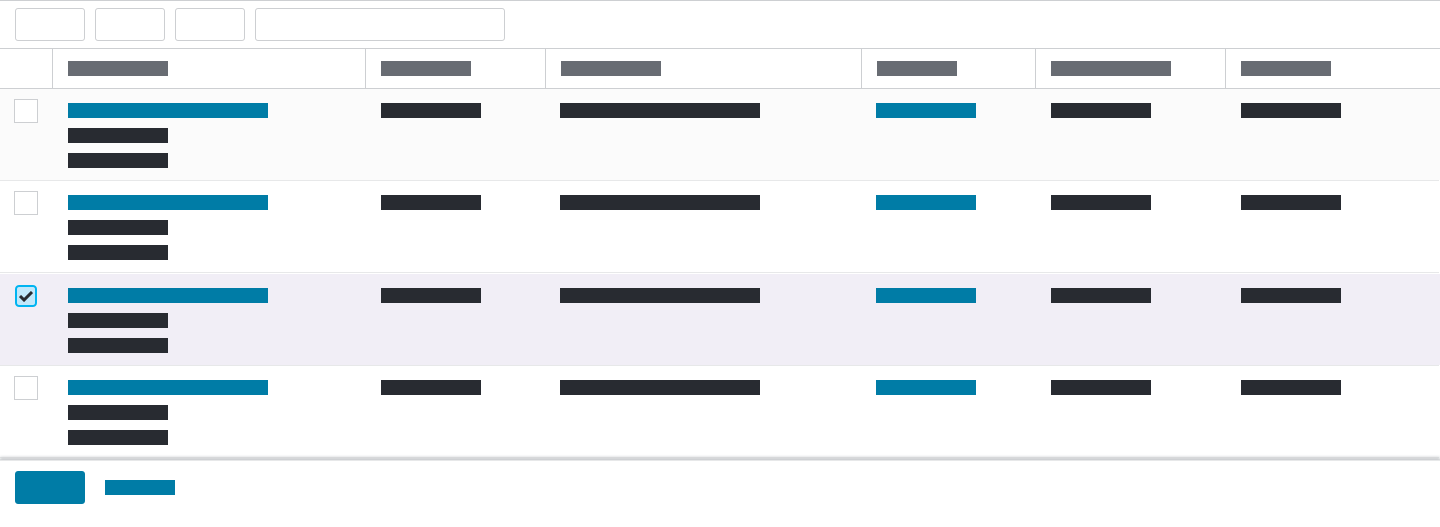
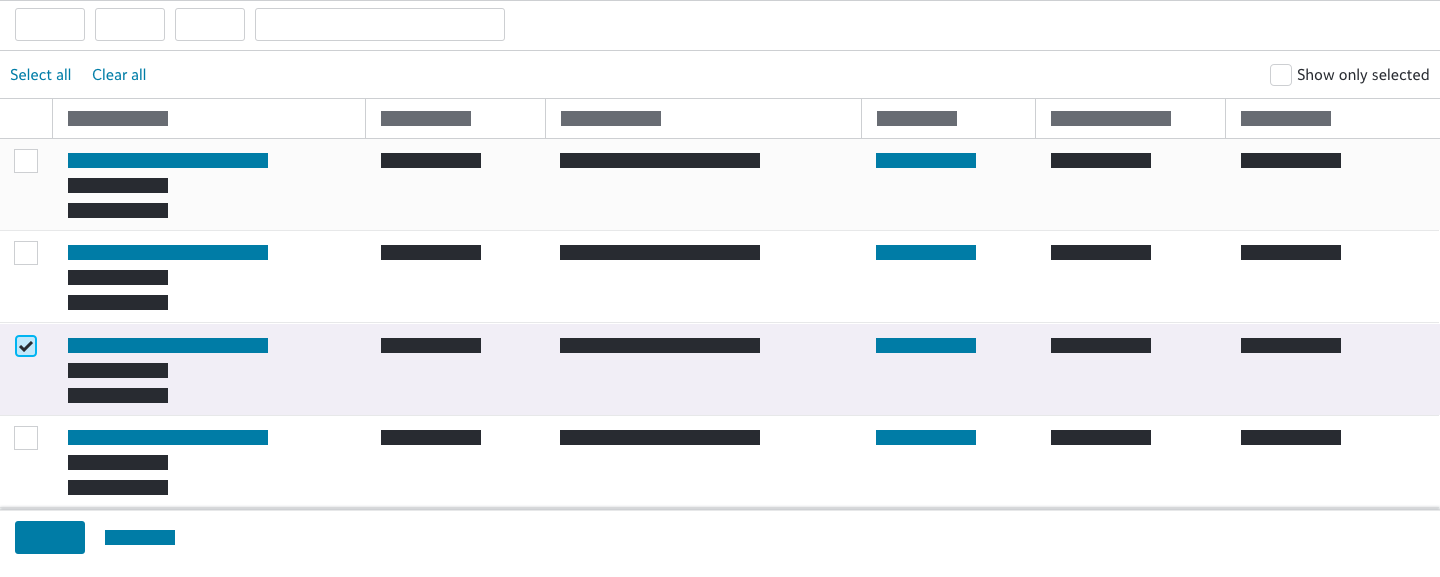
ux docs

diff --git a/src/app/components/list/grid/index.html b/src/app/components/list/grid/index.html
@@ -124,5 +124,263 @@
     <sky-list-view-grid-demo></sky-list-view-grid-demo>
     <sky-demo-page-code demoName="List view grid"></sky-demo-page-code>
   </sky-demo-page-example>
+	
+	<sky-demo-page-content sectionHeading="UX guidelines">
+	
+	
+	<header><div class="sky-section-heading">Usage</div></header>
+	<p>The grid provides a layout for tabular data.</p>
+		
+	<header><div class="sky-subsection-heading">When to use grids</div></header>
+		
+  <stache-row>
+    <stache-column screenSmall="6">
+			<p>Use grids to display tabular data when: </p>
+			<ul>
+				<li>There is a large amount of data that needs to be visible at once.</li>
+				<li>Users need to visually scan a column to look for certain values or outliers.</li>
+				<li>Users need to compare values between rows.</li>
+			</ul>
+		</stache-column>
+		<stache-column screenSmall="6">
+			<div class="screenshot screenshot-success">
+				<img src="~/assets/img/guidelines/grid/grid-use-when.png" />
+			</div>
+		</stache-column>
+	</stache-row>
+    
+	<header><div class="sky-subsection-heading">When not to use grids</div></header>
+
+  <stache-row>
+    <stache-column screenSmall="6">
+			<ul>
+        <li>Do not use grids when you need to display visual content such as graphs or images. Use <a routerLink="/components/repeater">repeaters</a> or <a routerLink="/components/card">card</a> views instead.</li>
+        <li>Do not use grids when the content calls for a more complex layout. If a grid requires a lot of templated columns, try a repeater instead.</li>
+        <li>Do not use grids when you need to display many fields and it is likely that users will view the grids in a small viewport, such as on a phone. Try repeaters instead.</li>
+      </ul>
+		</stache-column>
+		<stache-column screenSmall="6">
+			<div class="screenshot screenshot-danger">
+				<img src="~/assets/img/guidelines/grid/grid-dont-use-complex.png" style="width: 100%;" />
+			</div>
+		</stache-column>
+	</stache-row>
+		
+	<header><div class="sky-section-heading">Anatomy</div></header>
+	
+		<stache-row>
+			<stache-column screenSmall="3">
+				<ol>
+					<li>
+						<span class="sky-deemphasized">List count (optional)</span>
+					</li>
+					<li>
+						<span class="sky-deemphasized">Toolbar (optional)</span>
+					</li>
+					<li>
+						<span class="sky-deemphasized">Multiselect toolbar (optional)</span>
+					</li>
+					<li>
+						Header row
+					</li>
+					<li>
+						<span class="sky-deemphasized">Row selection checkbox (optional)</span>
+					</li>
+					<li>
+						<span class="sky-deemphasized">Context menu button (optional)</span>
+					</li>
+					<li>
+						Data
+					</li>
+					<li>
+						Alternate row striping
+					</li>
+					<li>
+						Row divider
+					</li>
+					<li>
+						Selected row background
+					</li>
+					<li>
+						<span class="sky-deemphasized">Pagination (optional)</span>
+					</li>
+					<li>
+						<span class="sky-deemphasized">Summary action bar (optional)</span>
+					</li>
+				</ol>
+			</stache-column>
+			<stache-column screenSmall="9">
+				<div class="screenshot screenshot-info">
+				<img src="~/assets/img/guidelines/grid/grid-annotated.png" style="width: 100%;" />
+			</div>
+			</stache-column>
+		</stache-row>		
+    
+	<header><div class="sky-section-heading">Options</div></header>
+
+	<header><div class="sky-subsection-heading">Context menu</div></header>
+
+  <stache-row>
+    <stache-column screenSmall="6">
+			<p>Use context menus in the first column when users need to access multiple actions in the rows.</p>
+		</stache-column>
+		<stache-column screenSmall="6">
+			<div class="screenshot screenshot-info">
+				<img src="~/assets/img/guidelines/grid/grid-option-context-menu.png" style="width: 100%;" />
+			</div>
+		</stache-column>
+	</stache-row>
+    
+	<header><div class="sky-subsection-heading">Multiselect</div></header>
+
+  <stache-row>
+    <stache-column screenSmall="6">
+			<p>Use multiselect when:</p>
+				<ul>
+					<li>Users need to act on more than one row at a time.</li>
+					<li>The list is presented as a full page, a full page modal or a full page within a flyout.</li>
+				</ul>
+			<p>Don't use multiselect when:</p>
+			<ul>
+				<li>The list is presented in a tile, page section, or other container that might flow off the screen.</li>
+			</ul>
+			<p>Include the multiselect toolbar, which allows users to select or clear all items and to view only the selected items.</p>
+      <p>When users select rows, the summary action bar should fly in from the bottom of the page. Place actions that can be taken on the selected items in the summary action bar.</p>
+		</stache-column>
+		<stache-column screenSmall="6">
+			<div class="screenshot screenshot-info sky-margin-stacked-separate">
+				<img src="~/assets/img/guidelines/grid/grid-option-multi.png" style="width: 100%;" />
+			</div>
+			<div class="screenshot screenshot-danger">
+				<img src="~/assets/img/guidelines/grid/grid-option-multi-dont-tile.png" style="width: 100%;" />
+			</div>
+		</stache-column>
+	</stache-row>
+    
+	<header><div class="sky-subsection-heading">Sorting</div></header>
+
+  <stache-row>
+    <stache-column screenSmall="6">
+			<p>If users are likely to sort based on the data in columns, enable sorting so that they can click column headers to toggle between sorting in ascending and descending order for the specified fields in columns. If users need to sort by data in a templated column, use the <a routerLink="/components/sort">sort</a> component instead to allow them to choose the data being sorted on.</p>
+		</stache-column>
+		<stache-column screenSmall="6">
+			<div class="screenshot screenshot-info">
+				<img src="~/assets/img/guidelines/grid/grid-option-sort.png" style="width: 100%;" />
+			</div>
+		</stache-column>
+	</stache-row>
+		
+	<header><div class="sky-subsection-heading">Filtering</div></header>
+
+  <stache-row>
+    <stache-column screenSmall="6">
+			<p>If users are likely to need to work with a subset of the items in a list, enable filtering so that they can focus the list on the exact items they want.</p>
+		</stache-column>
+		<stache-column screenSmall="6">
+			<div class="screenshot screenshot-info">
+				<img src="~/assets/img/guidelines/grid/grid-option-filter.png" style="width: 100%;" />
+			</div>
+		</stache-column>
+	</stache-row>
+    
+	<header id="option-templated-columns"><div class="sky-subsection-heading">Templated columns</div></header>
+
+  <stache-row>
+    <stache-column screenSmall="6">
+			<p>When columns need to represent composite information instead of single values, use templated columns to lay out content as necessary.</p>
+		</stache-column>
+		<stache-column screenSmall="6">
+			<div class="screenshot screenshot-info">
+				<img src="~/assets/img/guidelines/grid/grid-option-template-column.png" style="width: 100%;" />
+			</div>
+		</stache-column>
+	</stache-row>
+    
+	<header><div class="sky-section-heading">Behavior</div></header>
+
+	<header><div class="sky-subsection-heading">Fit</div></header>
+	
+	<header><div class="sky-emphasized">Scroll</div></header>	
+		
+	
+		<stache-row>
+			<stache-column screenSmall="6">
+				<p>Setting the <stache-code>fit</stache-code> property to <stache-code>scroll</stache-code> allows the grid to take as much space as necessary by adding a horizontal scrollbar. This is most useful for grids with large numbers of columns.</p>
+			</stache-column>
+			<stache-column screenSmall="6">
+			<div class="screenshot screenshot-info">
+				<img src="~/assets/img/guidelines/grid/grid-fit-scroll.png" style="width: 100%;" />
+			</div>
+		</stache-column>
+		</stache-row>	
+		
+	
+	<header><div class="sky-emphasized">Width</div></header>
+  
+	
+		<stache-row>
+			<stache-column screenSmall="6">
+				<p>Setting the <stache-code>fit</stache-code> property to <stache-code>width</stache-code> fixes the width of the grid to that of its container. Columns resize themselves to fit. This is most useful for simple grids in smaller containers such as tiles where the content fits neatly in the allotted space.</p>
+			</stache-column>
+			<stache-column screenSmall="6">
+			<div class="screenshot screenshot-info">
+				<img src="~/assets/img/guidelines/grid/grid-fit-width.png" style="width: 100%;" />
+			</div>
+		</stache-column>
+		</stache-row>	
+		
+	
+	<header><div class="sky-subsection-heading">Reordering columns</div></header>
+
+  <stache-row>
+    <stache-column screenSmall="6">
+			<p>Users can reorder columns by dragging and dropping.</p>
+		</stache-column>
+		<stache-column screenSmall="6">
+			<div class="screenshot screenshot-success">
+				<img src="~/assets/img/guidelines/grid/grid-reorder.png" style="width: 100%;" />
+			</div>
+		</stache-column>
+	</stache-row>
+    
+	<header><div class="sky-subsection-heading">Resizing columns</div></header>
+
+  <stache-row>
+    <stache-column screenSmall="6">
+			<p>Users can resize columns by clicking and dragging or by using the keyboard.</p>
+		</stache-column>
+		<stache-column screenSmall="6">
+			<div class="screenshot screenshot-success">
+				<img src="~/assets/img/guidelines/grid/grid-resize.png" style="width: 100%;" />
+			</div>
+		</stache-column>
+	</stache-row>
+    
+	<header><div class="sky-section-heading">Responsiveness</div></header>
+  <p>Grids tend to perform poorly in small viewports. The columns in fixed width grids will shrink down to the point of being unreadable. Scrolling grids will require a lot of interaction to see all the content. Use a <a routerLink="/components/repeater">repeater</a> instead if possible.</p>
+		
+	<stache-row>
+		<stache-column screenSmall="4" screenMedium="3">
+			<header><div class="sky-section-heading">Related components</div></header>
+			<ul>
+				<li><a routerLink="/components/list/overview">List</a></li>
+				<li><a routerLink="/components/list/filters">List filters</a></li>
+				<li><a routerLink="/components/list/paging">List paging</a></li>
+				<li><a routerLink="/components/list/toolbar">List toolbar</a></li>
+				<li><a routerLink="/components/summary-actionbar">Summary action bar</a></li>
+				<li><a routerLink="/components/grid">Grid</a></li>
+				<li><a routerLink="/components/card">Card</a></li>
+				<li><a routerLink="/components/repeater">Repeater</a></li>
+			</ul>
+		</stache-column>		
+		<stache-column screenSmall="4" screenMedium="3">
+			<header><div class="sky-section-heading">Related guidelines</div></header>
+			<ul>
+				<li><a routerLink="/design/guidelines/page-layouts">Page layout</a></li>
+			</ul>
+		</stache-column>
+	</stache-row>
+    
+  </sky-demo-page-content>
 
 </sky-demo-page>
